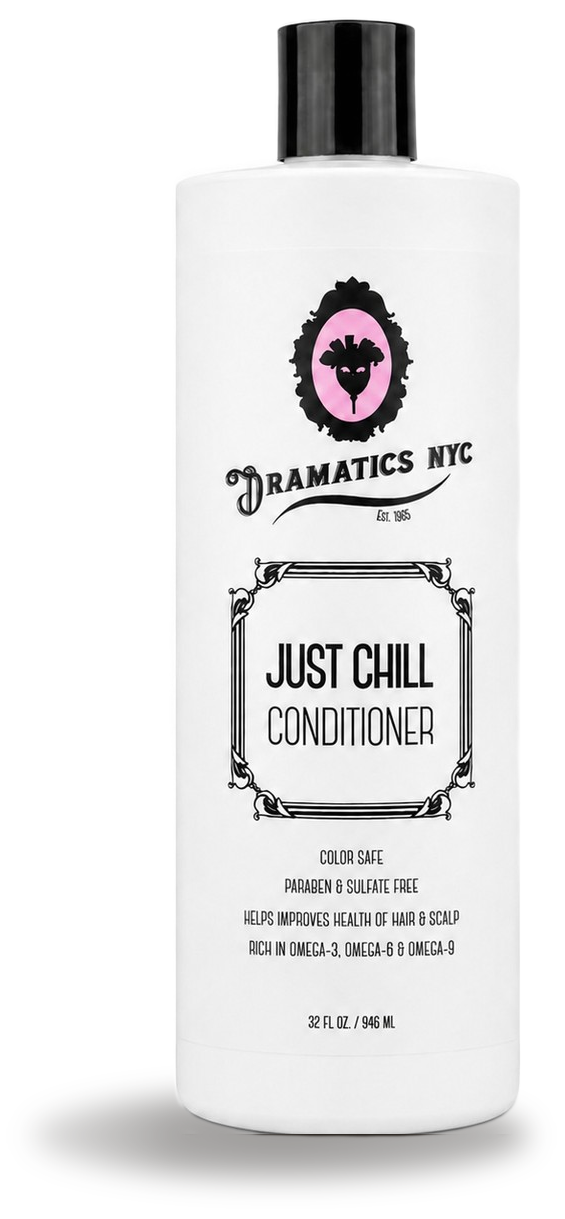
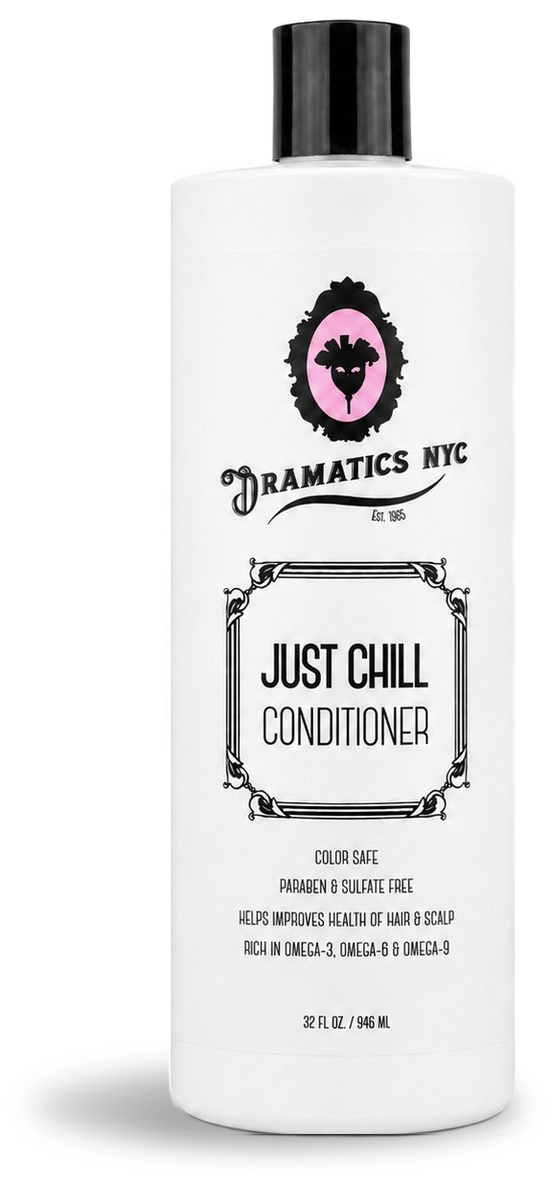
Products: shadow cast toward 10 o'clock (crescent up the lower-left, nothing pooled underneath), matched to Ocean Beach and Diesel Hayes

diff --git a/scripts/product-shadows.py b/scripts/product-shadows.py
@@ -21,8 +21,8 @@ from scipy.ndimage import binary_fill_holes, binary_dilation, label
 
 SHADOW_RGB = (50, 46, 43)
 PEAK_ALPHA = 0.50
-LEFT = 0.13      # of body height
-DOWN = 0.04      # of body height
+LEFT = 0.125     # of body height
+DOWN = 0.01      # of body height
 FOOT = 0.40      # footprint ellipse height / width
 BLUR = 0.012     # of body height
 
@@ -73,10 +73,14 @@ def shadow(src: str, dst: str) -> None:
     # The shadow runs from LEFT*h beyond the base's left edge to just past its
     # right edge, and hangs DOWN*h below the base line, so the product sits on
     # it instead of floating next to it.
+    # Cast toward 10 o'clock, like Ocean Beach and Diesel Hayes: the footprint
+    # ellipse sits with its bottom edge on the base line and rises up the left
+    # side of the product, so what shows is a crescent climbing the lower-left,
+    # not a pool underneath.
     x_left = bl - LEFT * h
-    x_right = br + 0.01 * h
+    x_right = br + 0.005 * h
     ew = x_right - x_left
-    eh = max(0.075 * h, 0.25 * bw)
+    eh = max(0.07 * h, 0.19 * bw)
     ecx = (x_left + x_right) / 2
     ecy = bottom + DOWN * h - eh / 2
     blur = float(max(5, BLUR * h))
@@ -86,9 +90,10 @@ def shadow(src: str, dst: str) -> None:
     yy, xx = np.mgrid[0:H, 0:W]
     r2 = ((xx - (ecx + pad)) / (ew / 2)) ** 2 + ((yy - ecy) / (eh / 2)) ** 2
     r = np.sqrt(np.clip(r2, 0, None))
-    # darkest against the body, fading toward the far left tip
+    # darkest against the body and toward the base line, fading to the tip
     fade = np.clip((xx - (x_left + pad)) / max(1.0, LEFT * h), 0, 1)
-    sh = np.where(r <= 1, PEAK_ALPHA * (0.45 + 0.55 * fade) * (0.7 + 0.3 * (1 - r)), 0.0)
+    vert = np.clip((yy - (ecy - eh / 2)) / eh, 0, 1)
+    sh = np.where(r <= 1, PEAK_ALPHA * (0.45 + 0.55 * fade) * (0.55 + 0.45 * vert), 0.0)
     mask = Image.fromarray((sh * 255).astype(np.uint8)).filter(ImageFilter.GaussianBlur(blur))
 
     out = Image.new("RGBA", (W, H), (0, 0, 0, 0))
